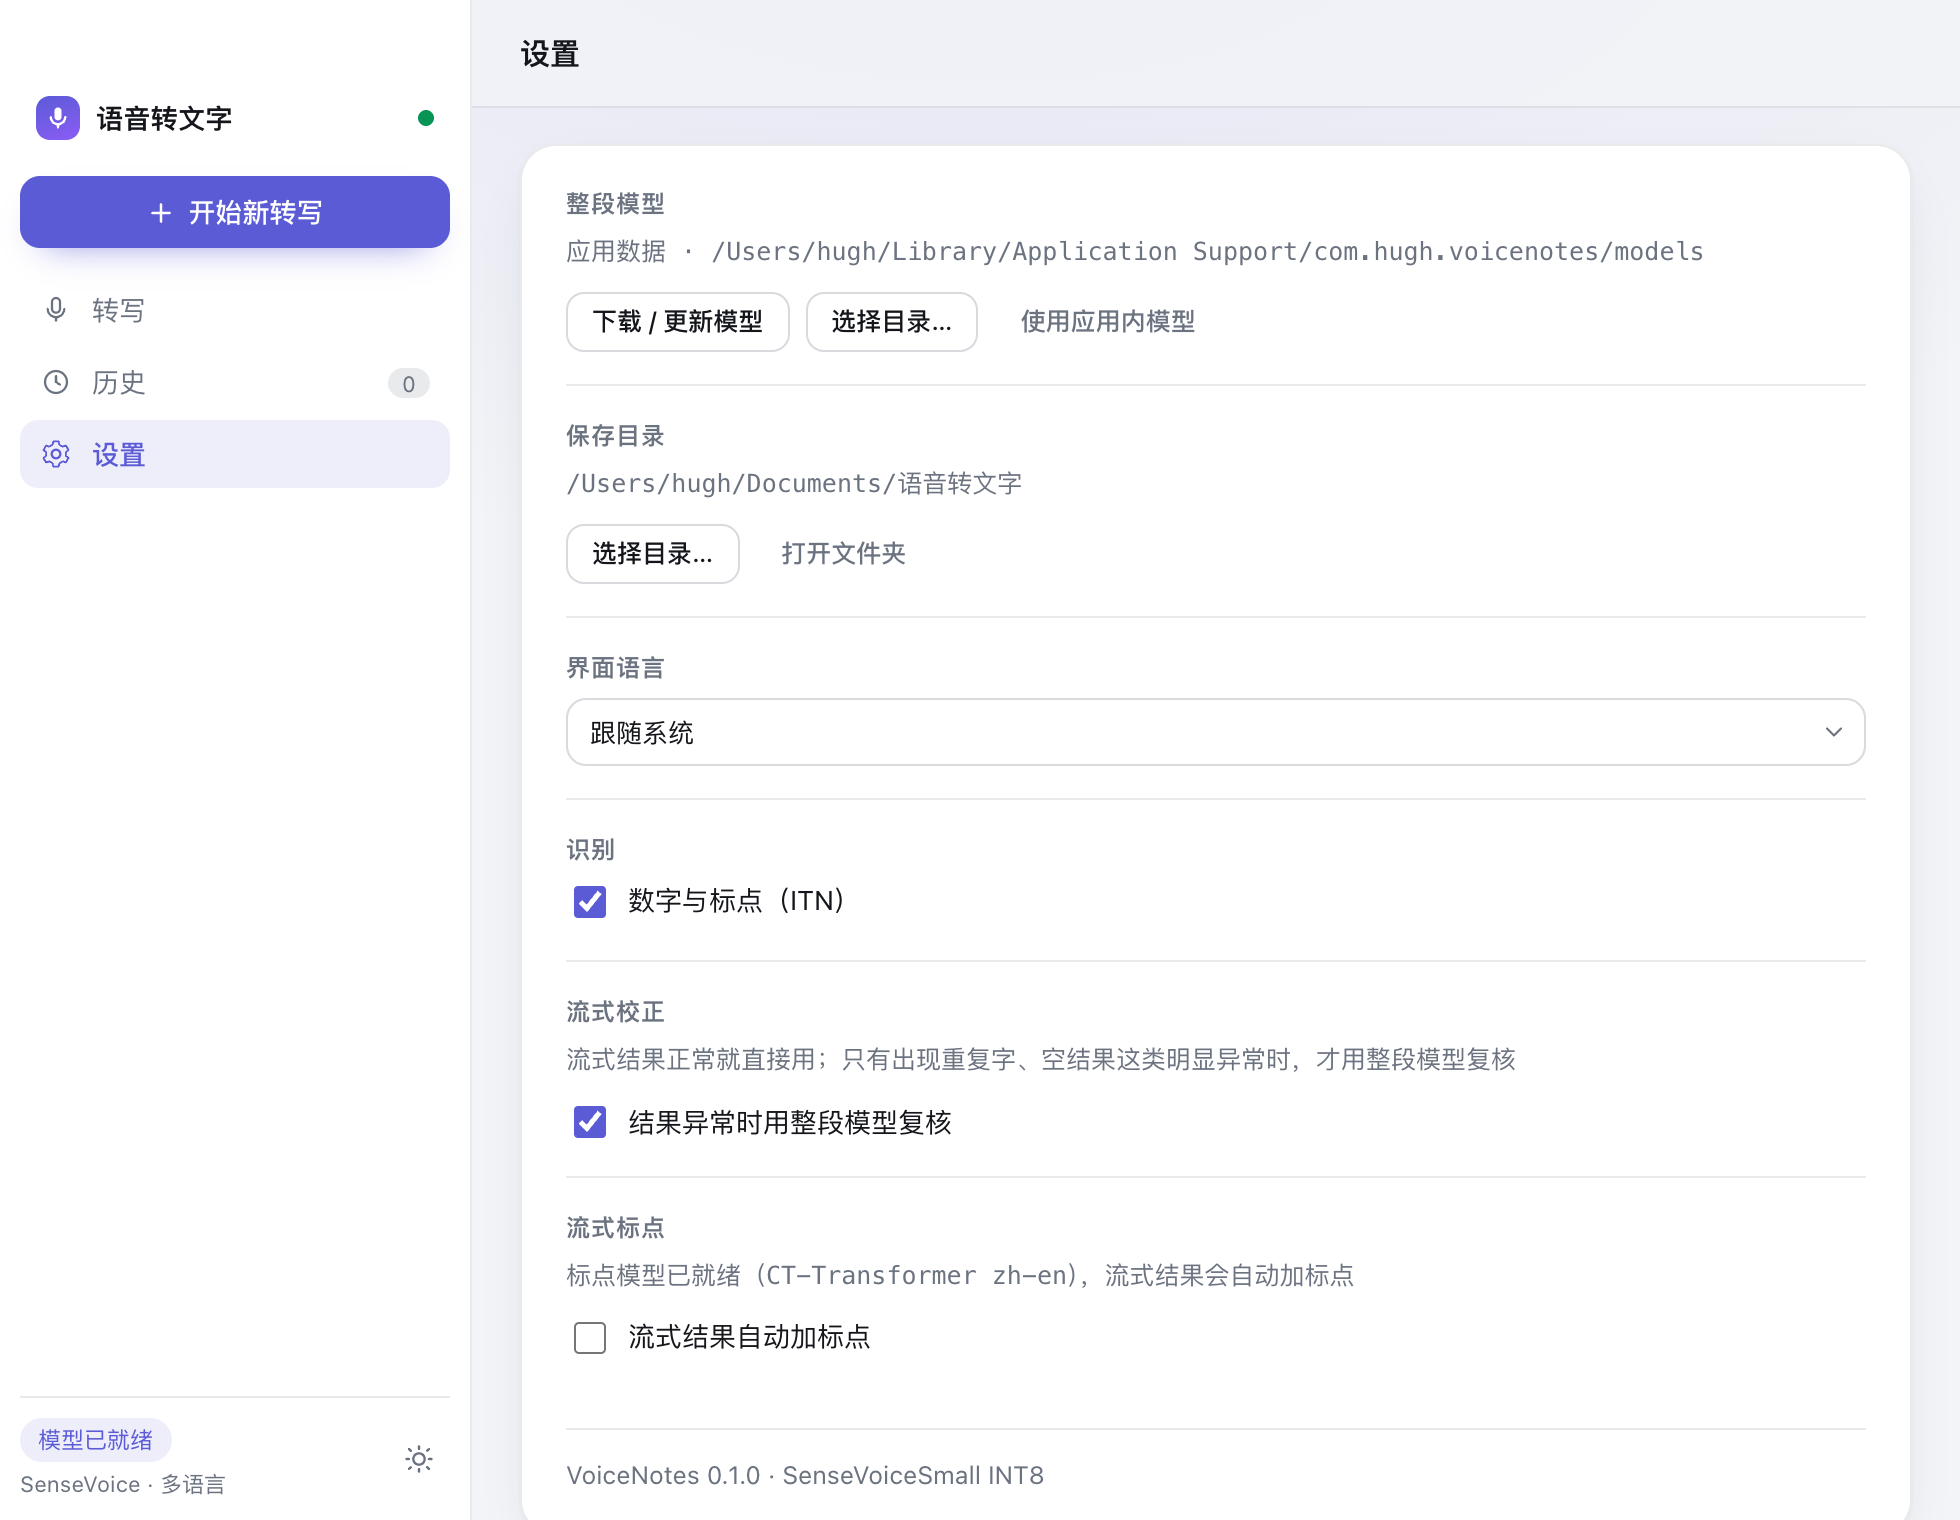
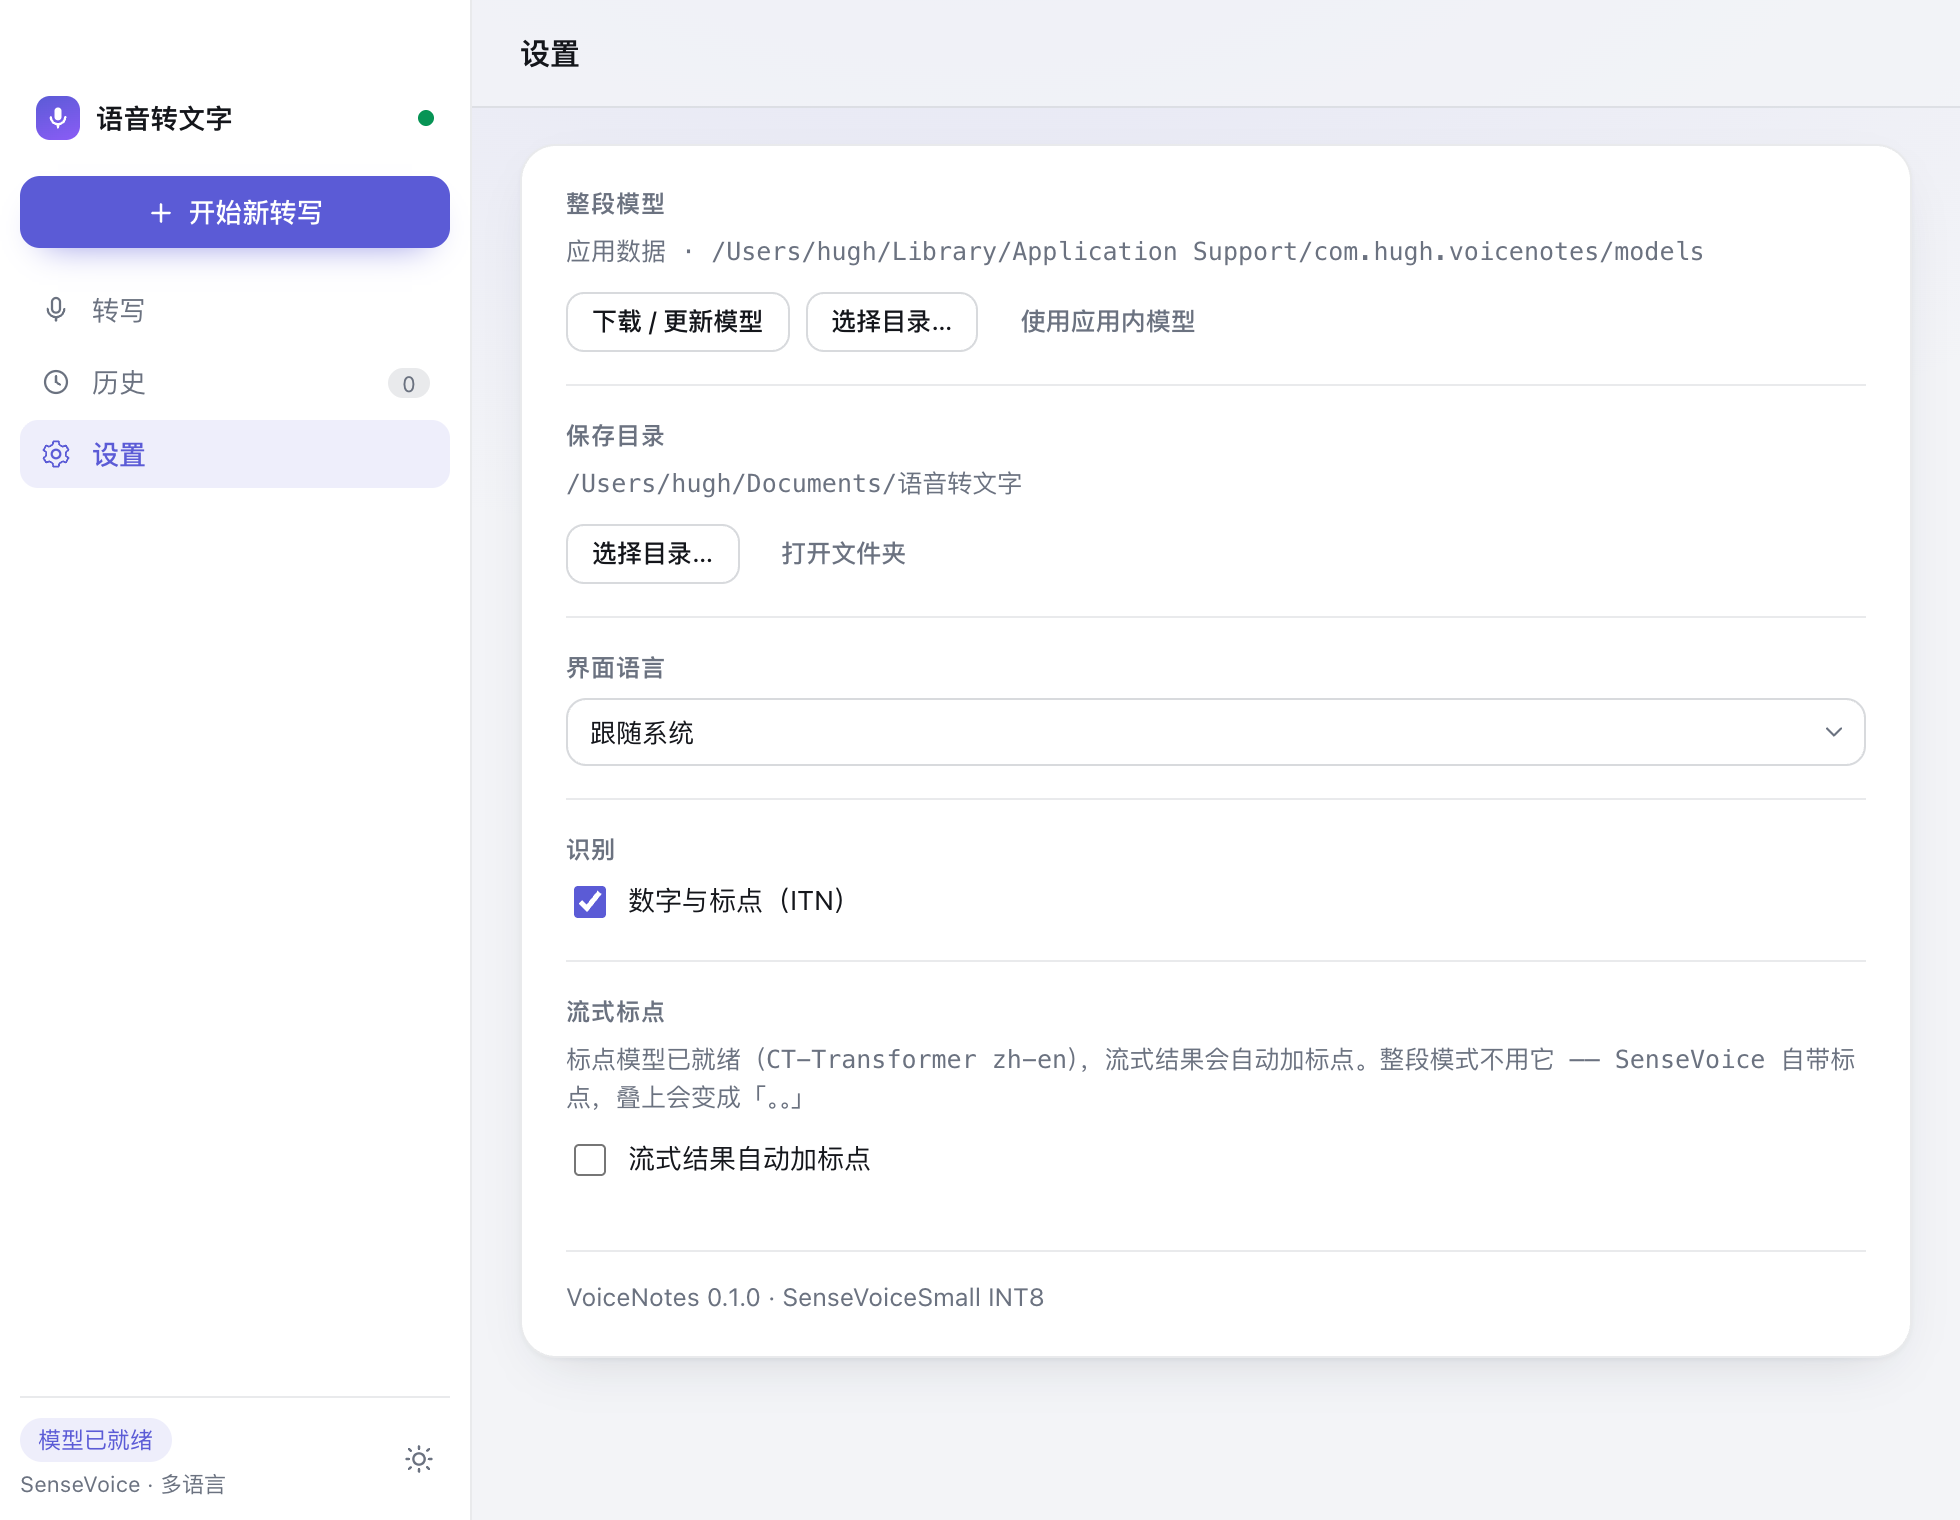
docs: 同步 Phase B 的文档与截图
- README：两种模式都是边录边出字、录音时长不限、文件解码在后端；
  已知限制改成「整段单句最长 30 秒（SenseVoice 官方限制）」
- AGENTS：记下消费式缓冲、增量载荷、后端解码、拖放事件这几条约定
- 整段芯片的副标题从「录完再转 · 带标点」改成「整句出字 · 多语言」
  （已经是边录边转了，文案过时）
- 9 张截图重出

验证：npm run check:i18n 153 key；Playwright 31 项全过；
实机打包启动正常（25.64 MiB）

diff --git a/src/locales/en.js b/src/locales/en.js
@@ -62,7 +62,7 @@ window.I18N_LOCALES['en'] = {
 
   'mode.offline': 'One-shot',
   'mode.group': 'Transcription mode',
-  'mode.offlineDesc': 'Whole clip in one pass · punctuation',
+  'mode.offlineDesc': 'Sentence by sentence · many languages',
   'mode.streaming': 'Streaming',
   'mode.streamingDesc': 'Text as you speak · Chinese only',
   'mode.streamingDownload': 'Download streaming model',

diff --git a/src/i18n.js b/src/i18n.js
@@ -67,7 +67,7 @@
 
       'mode.offline': '整段',
       'mode.group': '转写模式',
-      'mode.offlineDesc': '录完再转 · 带标点',
+      'mode.offlineDesc': '整句出字 · 多语言',
       'mode.streaming': '流式',
       'mode.streamingDesc': '实时出字 · 仅中文',
       'mode.streamingDownload': '下载流式模型',

diff --git a/src-tauri/tests/decode_smoke.rs b/src-tauri/tests/decode_smoke.rs
@@ -61,3 +61,69 @@ fn missing_file_returns_error() {
         .expect_err("不存在的文件应该报错");
     assert!(!err.is_empty());
 }
+
+/// 全链路：文件 → 解码 → VAD 切句 → SenseVoice 识别。
+///
+/// 需要 SenseVoice 模型，没设置就跳过：
+///   VOICE_NOTES_MODEL_DIR=/path/to/models cargo test --test decode_smoke -- --nocapture
+#[test]
+fn transcribes_file_end_to_end() {
+    let Some(dir) = std::env::var("VOICE_NOTES_MODEL_DIR").ok().map(std::path::PathBuf::from) else {
+        eprintln!("跳过：未设置 VOICE_NOTES_MODEL_DIR");
+        return;
+    };
+    let model = [dir.join("model.int8.onnx"), dir.join("model.onnx")]
+        .into_iter()
+        .find(|p| p.is_file());
+    let (Some(model), tokens) = (model, dir.join("tokens.txt")) else {
+        eprintln!("跳过：找不到 SenseVoice 模型");
+        return;
+    };
+    if !tokens.is_file() {
+        eprintln!("跳过：找不到 tokens.txt");
+        return;
+    }
+    let vad_model = [
+        dir.parent().map(|p| p.join("silero/silero_vad.onnx")),
+        Some(dir.join("silero_vad.onnx")),
+    ]
+    .into_iter()
+    .flatten()
+    .find(|p| p.is_file());
+
+    let paths = voice_notes_lib::models::ModelPaths {
+        dir: dir.display().to_string(),
+        model: model.display().to_string(),
+        tokens: tokens.display().to_string(),
+        vad: vad_model.map(|p| p.display().to_string()),
+        source: "test".into(),
+    };
+    let engine = std::sync::Arc::new(
+        voice_notes_lib::asr::Engine::new(&paths, "zh", true).expect("加载模型"),
+    );
+    let vad = engine.vad_config().expect("VAD 配置");
+    let mut session = voice_notes_lib::asr::OfflineSession::new(engine.clone(), vad);
+
+    let path = Path::new("tests/fixtures/sample.m4a");
+    if !path.exists() {
+        eprintln!("跳过：缺少 sample.m4a");
+        return;
+    }
+    let info = decode_to_16k(path, |chunk| {
+        for event in session.push(chunk) {
+            let voice_notes_lib::asr::OfflineEvent::Segment(segment) = event;
+            println!("  句子：{}（{:.2}s~{:.2}s）", segment.text, segment.start, segment.end);
+        }
+        Ok(())
+    })
+    .expect("解码");
+    for event in session.finish() {
+        let voice_notes_lib::asr::OfflineEvent::Segment(segment) = event;
+        println!("  收尾句子：{}", segment.text);
+    }
+
+    let text = voice_notes_lib::asr::join_segments(session.segments().iter().map(|s| s.text.as_str()));
+    println!("识别结果：{text}（{:.2}s 音频，{} 句）", info.samples as f32 / 16000.0, session.segments().len());
+    assert!(!text.trim().is_empty(), "识别结果为空");
+    assert!(session.segments().len() >= 1);
+}

diff --git a/AGENTS.md b/AGENTS.md
@@ -40,11 +40,18 @@ wav.rs       PCM16 WAV 解析（前端载荷）
 - 推理是同步阻塞的，一律放进 `tauri::async_runtime::spawn_blocking`，不要阻塞 async 命令的执行器。
 - 引擎按 `(language, itn)` 缓存；语言或 ITN 变化时重建。想加“切换语言不重载”，需要走 C API 的 `setConfig`，Rust 绑定没暴露。
 - 事件：`audio:level`、`audio:error`、`model:progress`、`engine:state`、`stream:partial`、`stream:segment`、`streaming:state`。改事件名要同步 `src/events.js` 的 `listenEvents()`（事件名只在那一个文件里出现）。
-- **两种模式**：`settings.mode = offline | streaming`（界面上叫「整段 / 流式」，两个都是语音模型，区别在识别方式）。整段走 SenseVoice（VAD 分句）；流式走 Zipformer transducer，`start_recording` 先 `ensure_streaming_engine` 再起采集，`run_streaming_core` 每 60ms 从录音缓冲按游标取新采样、重采样后喂给 `StreamingSession`。
+- **采集缓冲是消费式的**：`audio::SampleQueue` 的 `take_new()` 取走即释放，内存恒定（录音 1 小时和 1 分钟占一样多）。**电平表走独立的 `LevelRing`**（2048 样本）——采集缓冲没有历史了，音量表去读它会恒读 0。
+- **安全阀**：未消费采样超过 `MAX_PENDING_SECONDS × 设备实际采样率`（60 秒，采样率不能写死 48k）时丢最旧的，并用 `audio::gap_marker()` 在结果里留下可见的缺口，不能静默丢。
+- **两种模式都是边录边出字**：整段用 `OfflineSession`（VAD 切句 + `Engine::recognize()`），流式用 `StreamingSession`（200ms 分片喂 Zipformer）。整段模式**不再需要把整条录音留在内存里**。
+- **事件载荷是增量的**：`stream:segment` 只带新句子（`segment`/`start`/`end`），`stream:partial` 只带中间结果。不要改回累计全文 —— 长时间会话下那是 O(n²) 的传输与重绘。前端 `core.js` 的 `joinText()` 与后端 `asr::join_segments()` 规则必须一致（中日韩之间直接连，其余加空格）。
+- **文件解码在后端**：`decode::decode_to_16k()` 用 symphonia 逐块解码，内存恒定。symphonia 锁 **0.5**（0.6 要求 Rust 1.85，会破本项目声明的 1.78）。
+- **拖拽用 Tauri 的 `onDragDropEvent`**：Tauri v2 默认拦截系统拖放（`dragDropEnabled`），HTML5 的 `drop` 事件在真实应用里不会触发。
+- **两种模式**：`settings.mode = offline | streaming`（界面上叫「整段 / 流式」，两个都是语音模型，区别在识别方式）。整段走 SenseVoice（VAD 分句，逐句 `recognize()`）；流式走 Zipformer transducer（`start_recording` 先 `ensure_streaming_engine` 再起采集）。**两个都是 `start_recording` 起线程、边录边出字**。
 - **流式必须按 200ms（3200 样本）分片、且只在 `is_ready()` 为真时 `decode()`**，否则 sherpa-onnx 特征缓冲会越界直接 abort（`features.cc GetFrames`）。这是踩过的坑，别改成小分片或无条件 decode。
 - 流式模型是独立的一组 assets（`STREAM_*`）：`streaming-zipformer-zh-int8-2025-06-30` + `silero_vad.onnx`，只覆盖中文；语言选粤/日/韩时前端会自动切回非流式。
 - 标点模型（`PUNCT`，CT-Transformer zh-en，281 MB）独立放在 `models/punct/`，默认关闭；开启后 `StreamEmitter` 在每句定稿时调用 `PunctuationEngine::apply`，实时中间结果（partial）不加标点。模型缺失/加载失败时静默降级，不阻断录音。
 - **流式收尾必须补 300ms 静音**（`asr.rs` 的 `TAIL_SILENCE_SAMPLES`）：解码器需要尾部上下文才会吐出最后一个字，不补就会丢句尾（“产品评审会”→“产品评审”）。补的静音不计入音频时长。
+- **整段模式不再有「录完再转」**：整条一次识别的路径已经删掉了（`transcribe_samples` 只剩文件转写在用）。录音走 `run_offline` 线程逐句识别。
 - **不要用 SenseVoice 覆盖流式结果**（这个功能已经删掉了，别再加回来）：实测（5 条中文样本）修收尾后流式 99%、SenseVoice 91%，SenseVoice 会把“明天”听成“今天”。而且复核要求保留全部音频，和「录音不限时长、内存恒定」直接冲突。
 - **SenseVoice 开 ITN 时自己就输出标点**（关掉 ITN 才是纯文本）。标点模型（CT-Transformer）现在只用于**流式模式**给句子补标点；整段模式靠 SenseVoice 自带的 ITN 标点，不要再给整段结果再套一遍标点模型，否则会叠成「。。」。
 - 流式链路带 **VAD 门控**：Silero 判到静音就 `force_end()` 提交并 reset，静音段不喂模型（否则 transducer 会在噪声上编出重复字），起音前保留 0.4s 预录避免切字头。
@@ -53,7 +60,7 @@ wav.rs       PCM16 WAV 解析（前端载荷）
 - **别在启动时同步列设备**（`init()` 里直接调）：弹框会打断用户，而且实测弹框期间应用窗口是空白的（进程没有重启，空白的原因没查清）。点麦克风时仍然先 `warm_up_mic` 探一次权限，用户拒绝过的话能给出明确报错。
 - **输入设备可选**：`list_input_devices` 命令列出 cpal 输入设备（默认设备带标记），`set_input_device` 存进 settings（None = 系统默认），`audio::start` 按名字挑设备；挑不到就退回默认。下拉框每次展开会重新列一次（`select.js` 的 `onBeforeOpen`），中途插拔设备也能看到。
 - **自绘下拉框的 `setItems` 必须在 `UISelect.create()` 之后调用**，反了会拿到 null（启动直接报错）。
-- 录音缓冲上限 600 秒（`audio.rs` 的 `MAX_SECONDS`），前端 `MAX_SECONDS` 也要一起改。
+- **没有录音时长上限**了（原来的 600 秒上限随消费式缓冲一起删掉）。前端的 `MAX_SECONDS` 常量也一并删除。
 
 ## 测试
 
@@ -62,9 +69,10 @@ cd src-tauri
 cargo test --lib                      # 纯逻辑 + 麦克风枚举
 cargo test --test asr_smoke -- --nocapture   # 非流式真模型转写（没模型会跳过）
 cargo test --test streaming_smoke -- --nocapture  # 流式真模型转写（VOICE_NOTES_STREAMING_MODEL_DIR）
+cargo test --test decode_smoke -- --nocapture   # 后端解码 + 文件全链路转写
 ```
 
-`asr_smoke` 需要 `VOICE_NOTES_MODEL_DIR` 指向包含 `model.int8.onnx` / `tokens.txt` 的目录，未设置时自动跳过。
+`asr_smoke` 需要 `VOICE_NOTES_MODEL_DIR` 指向包含 `model.int8.onnx` / `tokens.txt` 的目录，未设置时自动跳过。`decode_smoke` 的全链路用例同样需要它（另加 `VOICE_NOTES_MODEL_DIR` 才跑文件转写那一项）。
 
 ## Windows
 

diff --git a/README.md b/README.md
@@ -27,12 +27,13 @@
 ## 功能
 
 - **点一下开始、再点一下结束**，Esc 取消，空格键快捷开关；录音时有实时电平波形与计时。
-- **两种识别方式**：**整段**（SenseVoice 录完一遍识别，支持 6 种语言）和**流式**（Zipformer 边说边出，仅中文）。
+- **两种识别方式**：**整段**（SenseVoice，支持 6 种语言）和**流式**（Zipformer，仅中文）。**两种都是边录边出字**：整段模式用 VAD 按语音段切开、逐句送模型，流式用 transducer 逐帧解码。
+- **录音时长不限**：采集缓冲是消费式的（识别完就释放），内存恒定 —— 录 1 小时和录 1 分钟占的内存一样。
 - **VAD 自动分句**：长录音按语音段切开逐段识别，静音段被跳过，结果按中英文习惯拼接。
 - **中 / 英 / 粤 / 日 / 韩 / 自动检测** 语言选择，ITN（数字、标点）可开关。
 - **可选输入设备**：多麦、外接声卡、回环设备都能选，不会再录到「不是你想录的那个声音」。
 - **标点可选**：装上标点模型（CT-Transformer）后，流式结果按句自动补标点；不装也能用。
-- **文件转写**：把音频/视频拖进窗口，或按 `⌘O` / `Ctrl+O` 选文件；浏览器解码后重采样再送模型（mp3、m4a、wav、webm… 取决于系统解码器）。
+- **文件转写**：把音频/视频拖进窗口，或按 `⌘O` / `Ctrl+O` 选文件；**在后端解码**（symphonia，纯 Rust，不需要 ffmpeg），支持 mp3 / wav / flac / ogg / m4a / mp4 / mov（视频轨忽略），长文件也是边解边转，内存恒定。
 - **界面语言**：中文 / English，设置里可切；文案集中在字典文件里。
 - **历史记录**（本地 localStorage，最多 100 条），一键复制、保存。
 - **保存目录可指定**，默认 `文档/语音转文字/`，文件为 UTF-8 的 `.txt`。
@@ -131,7 +132,8 @@ src/                     前端（原生 JS，无构建）
   locales/en.js          英文字典（加语言 = 加一个字典文件）
 src-tauri/
   src/lib.rs             Tauri 命令、状态、保存
-  src/asr.rs             SenseVoice 推理 + Silero VAD 分句 + 流式 Zipformer（带 VAD 门控）
+  src/asr.rs             SenseVoice 推理 + Silero VAD 分句 + 整段/流式会话
+  src/decode.rs          symphonia 后端解码（mp3/wav/flac/ogg/m4a/mp4/mov）
   src/audio.rs           cpal 采集、设备选择、电平、重采样
   src/models.rs          模型定位/下载/校验
   src/settings.rs        设置持久化
@@ -158,10 +160,10 @@ VOICE_NOTES_RECORD_TEST=1 cargo test --lib records_microphone -- --nocapture
 
 ## 已知限制
 
-- 整段模式是**准实时**：录音结束后统一识别（SenseVoice 是非流式模型）。要边说边出字请切「流式」。
-- 流式模式只支持**中文**；标点是可选模型（见上），只加在定稿句上，实时中间结果不带标点。
-- 文件转写依赖系统解码器：mp3 / m4a / wav 没问题，**mp4 / mov 视频容器在 macOS 能解、Windows 解不了**（要在 Windows 也支持，需要把解码搬到后端）。
-- 单次录音上限 10 分钟；整段模式单句（VAD 切出来的一段）上限 30 秒。
+- 整段模式按 VAD 断句后逐句送模型，**一句话最长 30 秒**（SenseVoice 的单次输入上限，官方限制）—— 连续说话时要等说完或停顿才出第一句，界面上有「正在听…」提示。
+- 整段模式每句独立识别，**跨句上下文不保留**（SenseVoice 是无状态模型）；流式模式有上下文，但只支持中文。
+- 流式的标点是可选模型（见上），只加在定稿句上，实时中间结果不带标点；整段模式用 SenseVoice 自带的 ITN 标点。
+- 拖拽文件依赖 Tauri 的拖放事件（`onDragDropEvent`）：Tauri v2 默认拦截系统拖放，HTML5 的 `drop` 事件不会触发。
 - 首次转写需要把 239 MB 模型读进内存，约 1–2 秒；之后常驻复用。
 - 说话人分离、时间戳导出未做。
 - 打包 `.dmg` 需要能调用 `hdiutil`；在受限沙箱里 `npm run build` 可能只产出 `.app`（`--bundles app` 可跳过 dmg）。
